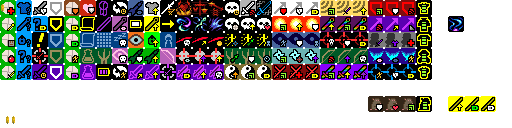
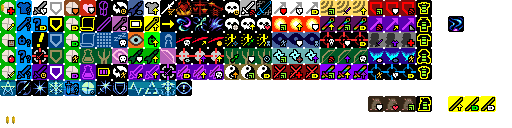
魔剑士1-2阶天赋素材准备

Changed region(s): [[0.0, 0.625, 0.375, 0.75]]

diff --git a/core/src/main/java/com/shatteredpixel/shatteredpixeldungeon/actors/hero/Talent.java b/core/src/main/java/com/shatteredpixel/shatteredpixeldungeon/actors/hero/Talent.java
@@ -76,6 +76,7 @@ import com.shatteredpixel.shatteredpixeldungeon.ui.BuffIndicator;
 import com.watabou.noosa.Image;
 import com.watabou.noosa.audio.Sample;
 import com.watabou.utils.Bundle;
+import com.watabou.utils.DeviceCompat;
 import com.watabou.utils.GameMath;
 import com.watabou.utils.PathFinder;
 import com.watabou.utils.Random;
@@ -178,6 +179,9 @@ public enum Talent {
 	ELEMENTAL_REACH(148, 4), STRIKING_FORCE(149, 4), DIRECTED_POWER(150, 4),
 	//Duelist A3 T4
 	FEIGNED_RETREAT(151, 4), EXPOSE_WEAKNESS(152, 4), COUNTER_ABILITY(153, 4),
+
+	//SpellSword T1
+	MAGIC_COMPRESSION(160),GUARDIAN_BLADE(161),ICE_LIBERATION(162),COLD_HARDY_CONSTITUTION(163),MALICIOUS_SPECULATION(164),
 
 	//universal T4
 	HEROIC_ENERGY(26, 4), //See icon() and title() for special logic for this one
@@ -873,6 +877,11 @@ public enum Talent {
 				break;
 			case DUELIST:
 				Collections.addAll(tierTalents, STRENGTHENING_MEAL, ADVENTURERS_INTUITION, PATIENT_STRIKE, AGGRESSIVE_BARRIER);
+				break;
+			case SPELLSWORD:
+				if(DeviceCompat.isDesktop_Dev()){
+					Collections.addAll(tierTalents,	MAGIC_COMPRESSION,GUARDIAN_BLADE,ICE_LIBERATION,COLD_HARDY_CONSTITUTION,MALICIOUS_SPECULATION);
+				}
 				break;
 		}
 		for (Talent talent : tierTalents){

diff --git a/core/src/main/java/com/shatteredpixel/shatteredpixeldungeon/Assets.java b/core/src/main/java/com/shatteredpixel/shatteredpixeldungeon/Assets.java
@@ -860,6 +860,8 @@ public class Assets {
 		public static final String MAGE		= "sprites/mage.png";
 		public static final String ROGUE	= "sprites/rogue.png";
 		public static final String HUNTRESS	= "sprites/huntress.png";
+		public static final String DUELIST  = "sprites/duelist.png";
+		public static final String SPELLSWORD      = "sprites/spellsword.png";
 		public static final String COMINGSOON	= "sprites/slimekingch.png";
 		public static final String AVATARS	= "sprites/avatars.png";
 		public static final String AVATARS_WARRIOR	= "sprites/avatars_warrior.png";
@@ -989,8 +991,7 @@ public class Assets {
 		public static final String BAT		= "sprites/bat.png";
 		public static final String BATEX		= "sprites/BrownBat.png";
 
-		public static final String DUELIST  = "sprites/duelist.png";
-		public static final String PET      = "sprites/pet.png";
+
 		public static final String ELEMENTAL= "sprites/elemental.png";
 		public static final String REDDRAGONPET = "sprites/petreddragon.png";
 		public static final String MONK		= "sprites/monk.png";

diff --git a/core/src/main/java/com/shatteredpixel/shatteredpixeldungeon/actors/hero/HeroClass.java b/core/src/main/java/com/shatteredpixel/shatteredpixeldungeon/actors/hero/HeroClass.java
@@ -279,7 +279,7 @@ public enum HeroClass {
 			hero.lvl = 30;
 			hero.HP=hero.HT=120;
 			hero.exp=-1;
-			if(DeviceCompat.isMidTest() || DeviceCompat.isMDP() || DeviceCompat.isDebug() && DeviceCompat.isDesktop()){
+			if(DeviceCompat.isMidTest() || DeviceCompat.isMDP() || DeviceCompat.isDesktop_Dev()){
 				SPDSettings.iceTestCoin(20260000);
 			}
 		}
@@ -445,12 +445,14 @@ public enum HeroClass {
 				return Assets.Sprites.HUNTRESS;
 			case DUELIST:
 				return Assets.Sprites.DUELIST;
+			case SPELLSWORD:
+				return Assets.Sprites.SPELLSWORD;
 		}
 	}
 
 	public boolean isUnlocked(){
 		//always unlock on debug builds
-		if(this == SPELLSWORD){
+		if(this == SPELLSWORD && !DeviceCompat.isDesktop() && !DeviceCompat.isDebug()){
 			return false;
 		}
 
